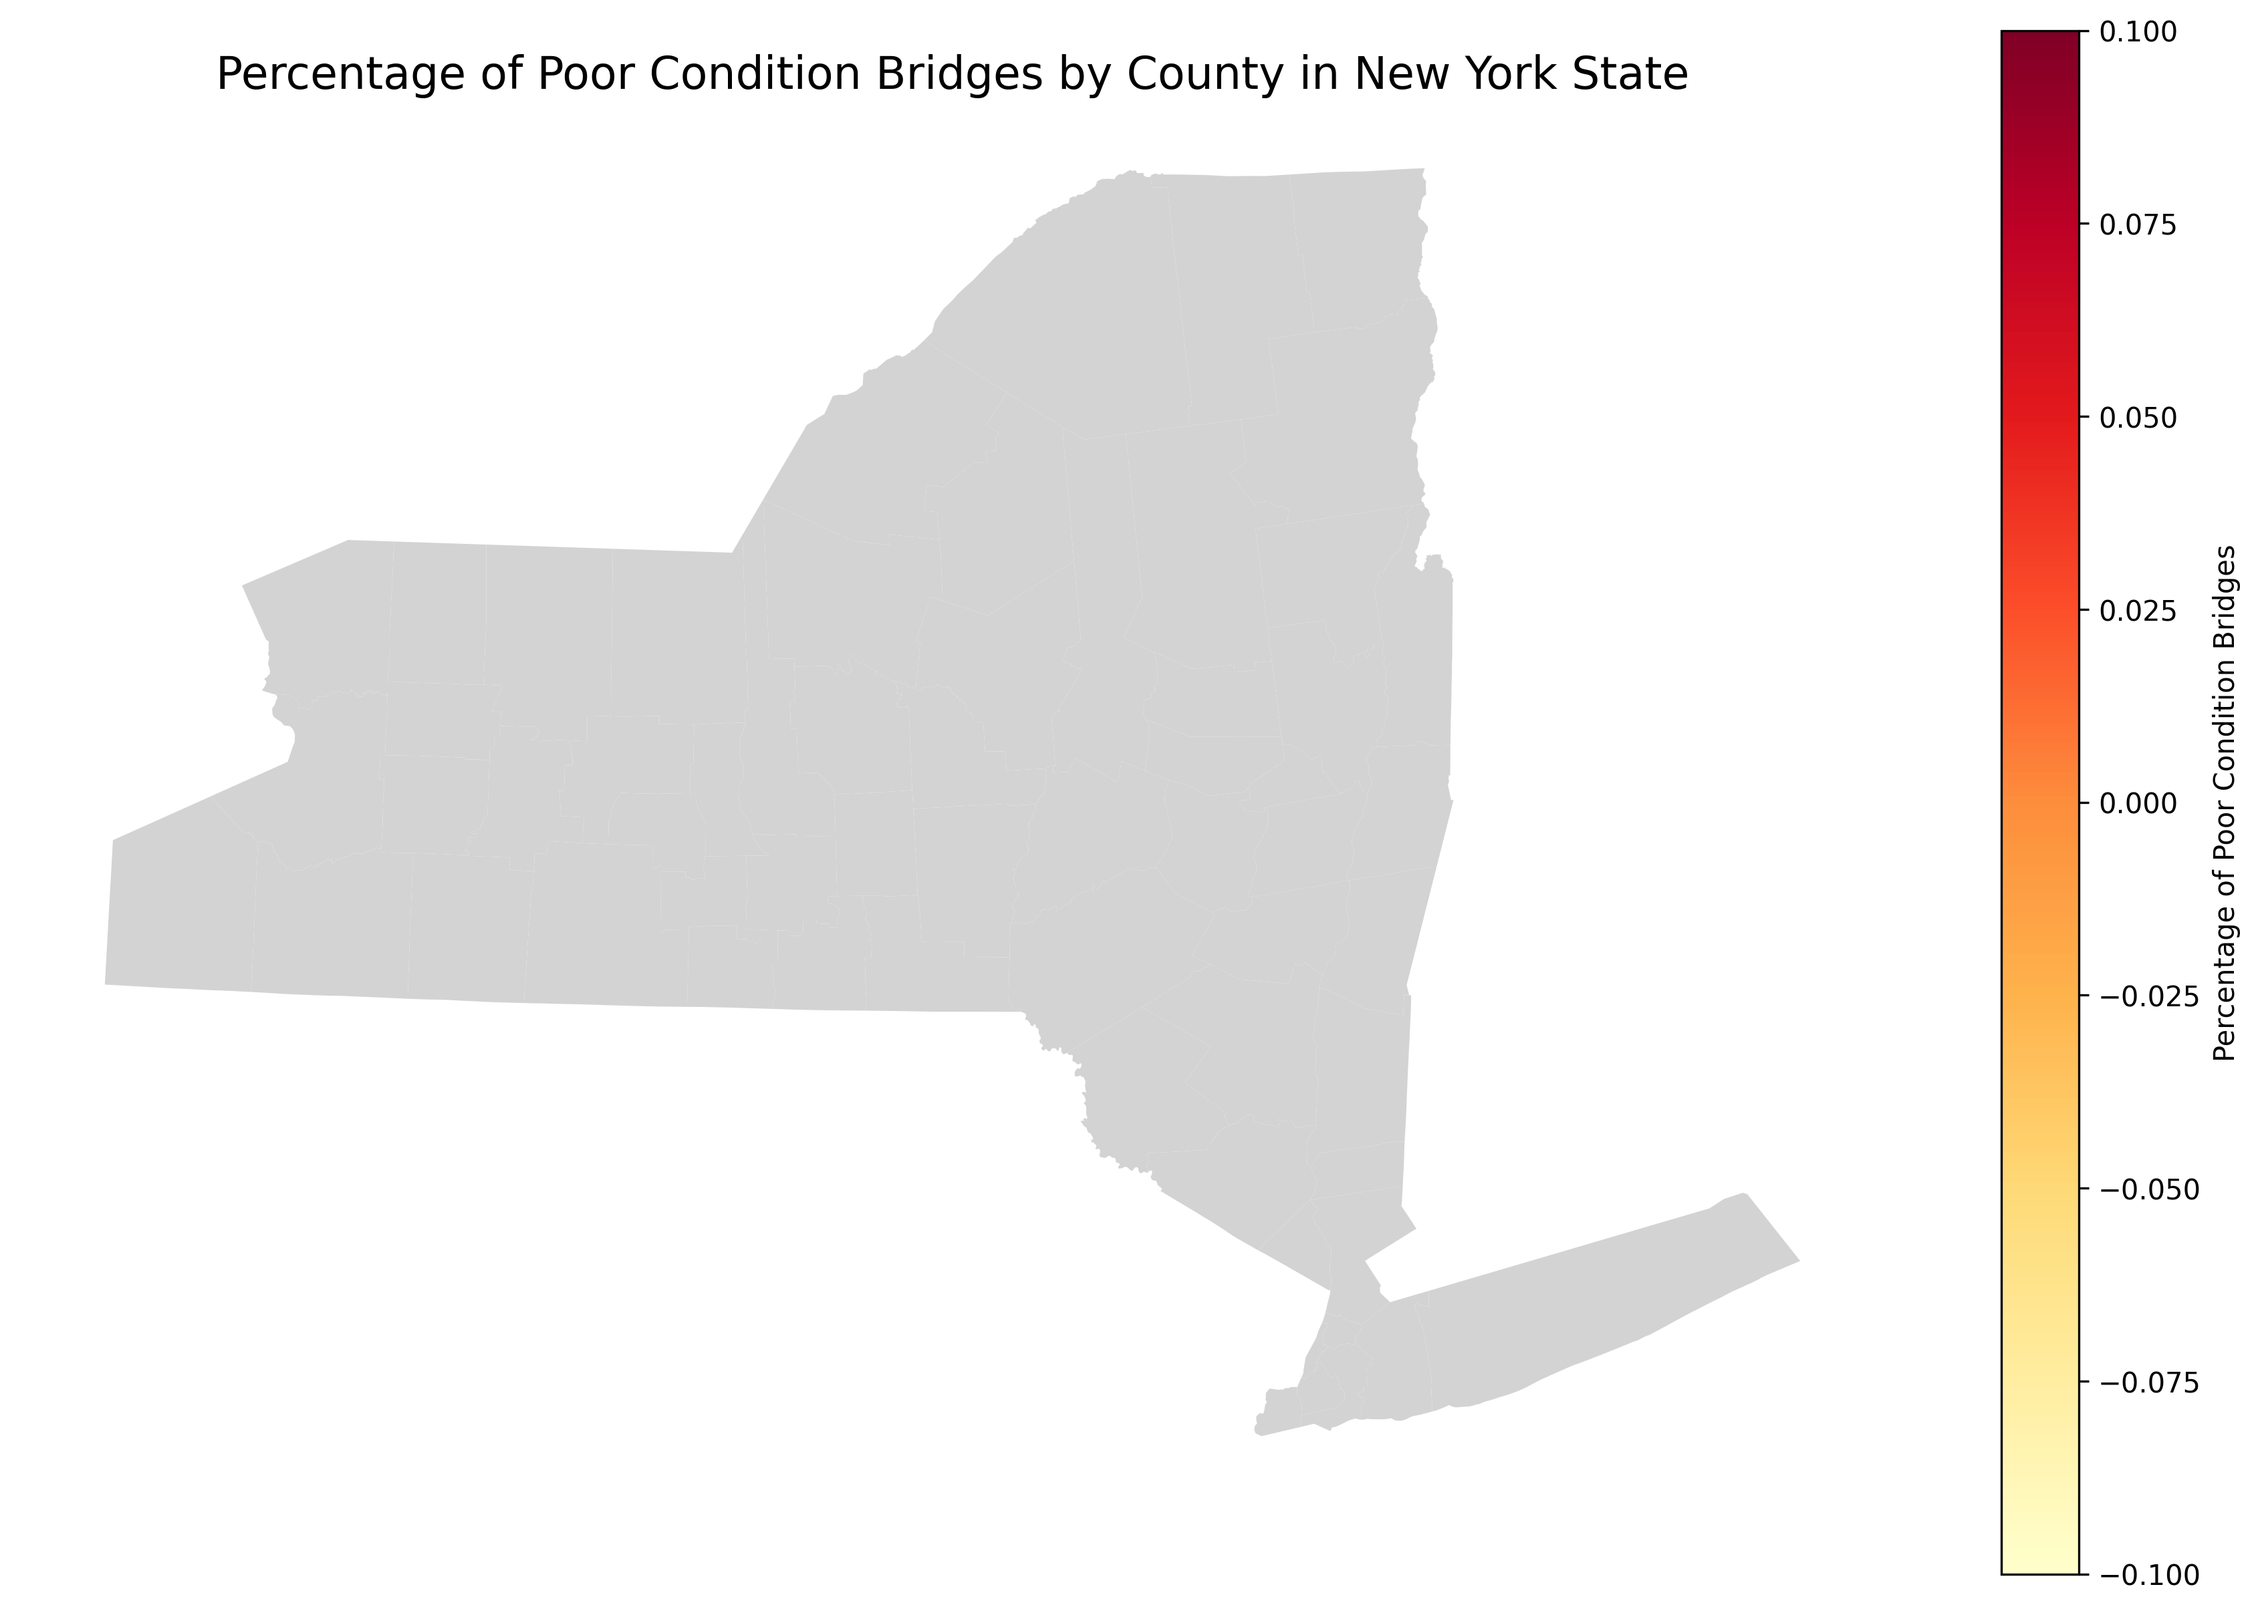
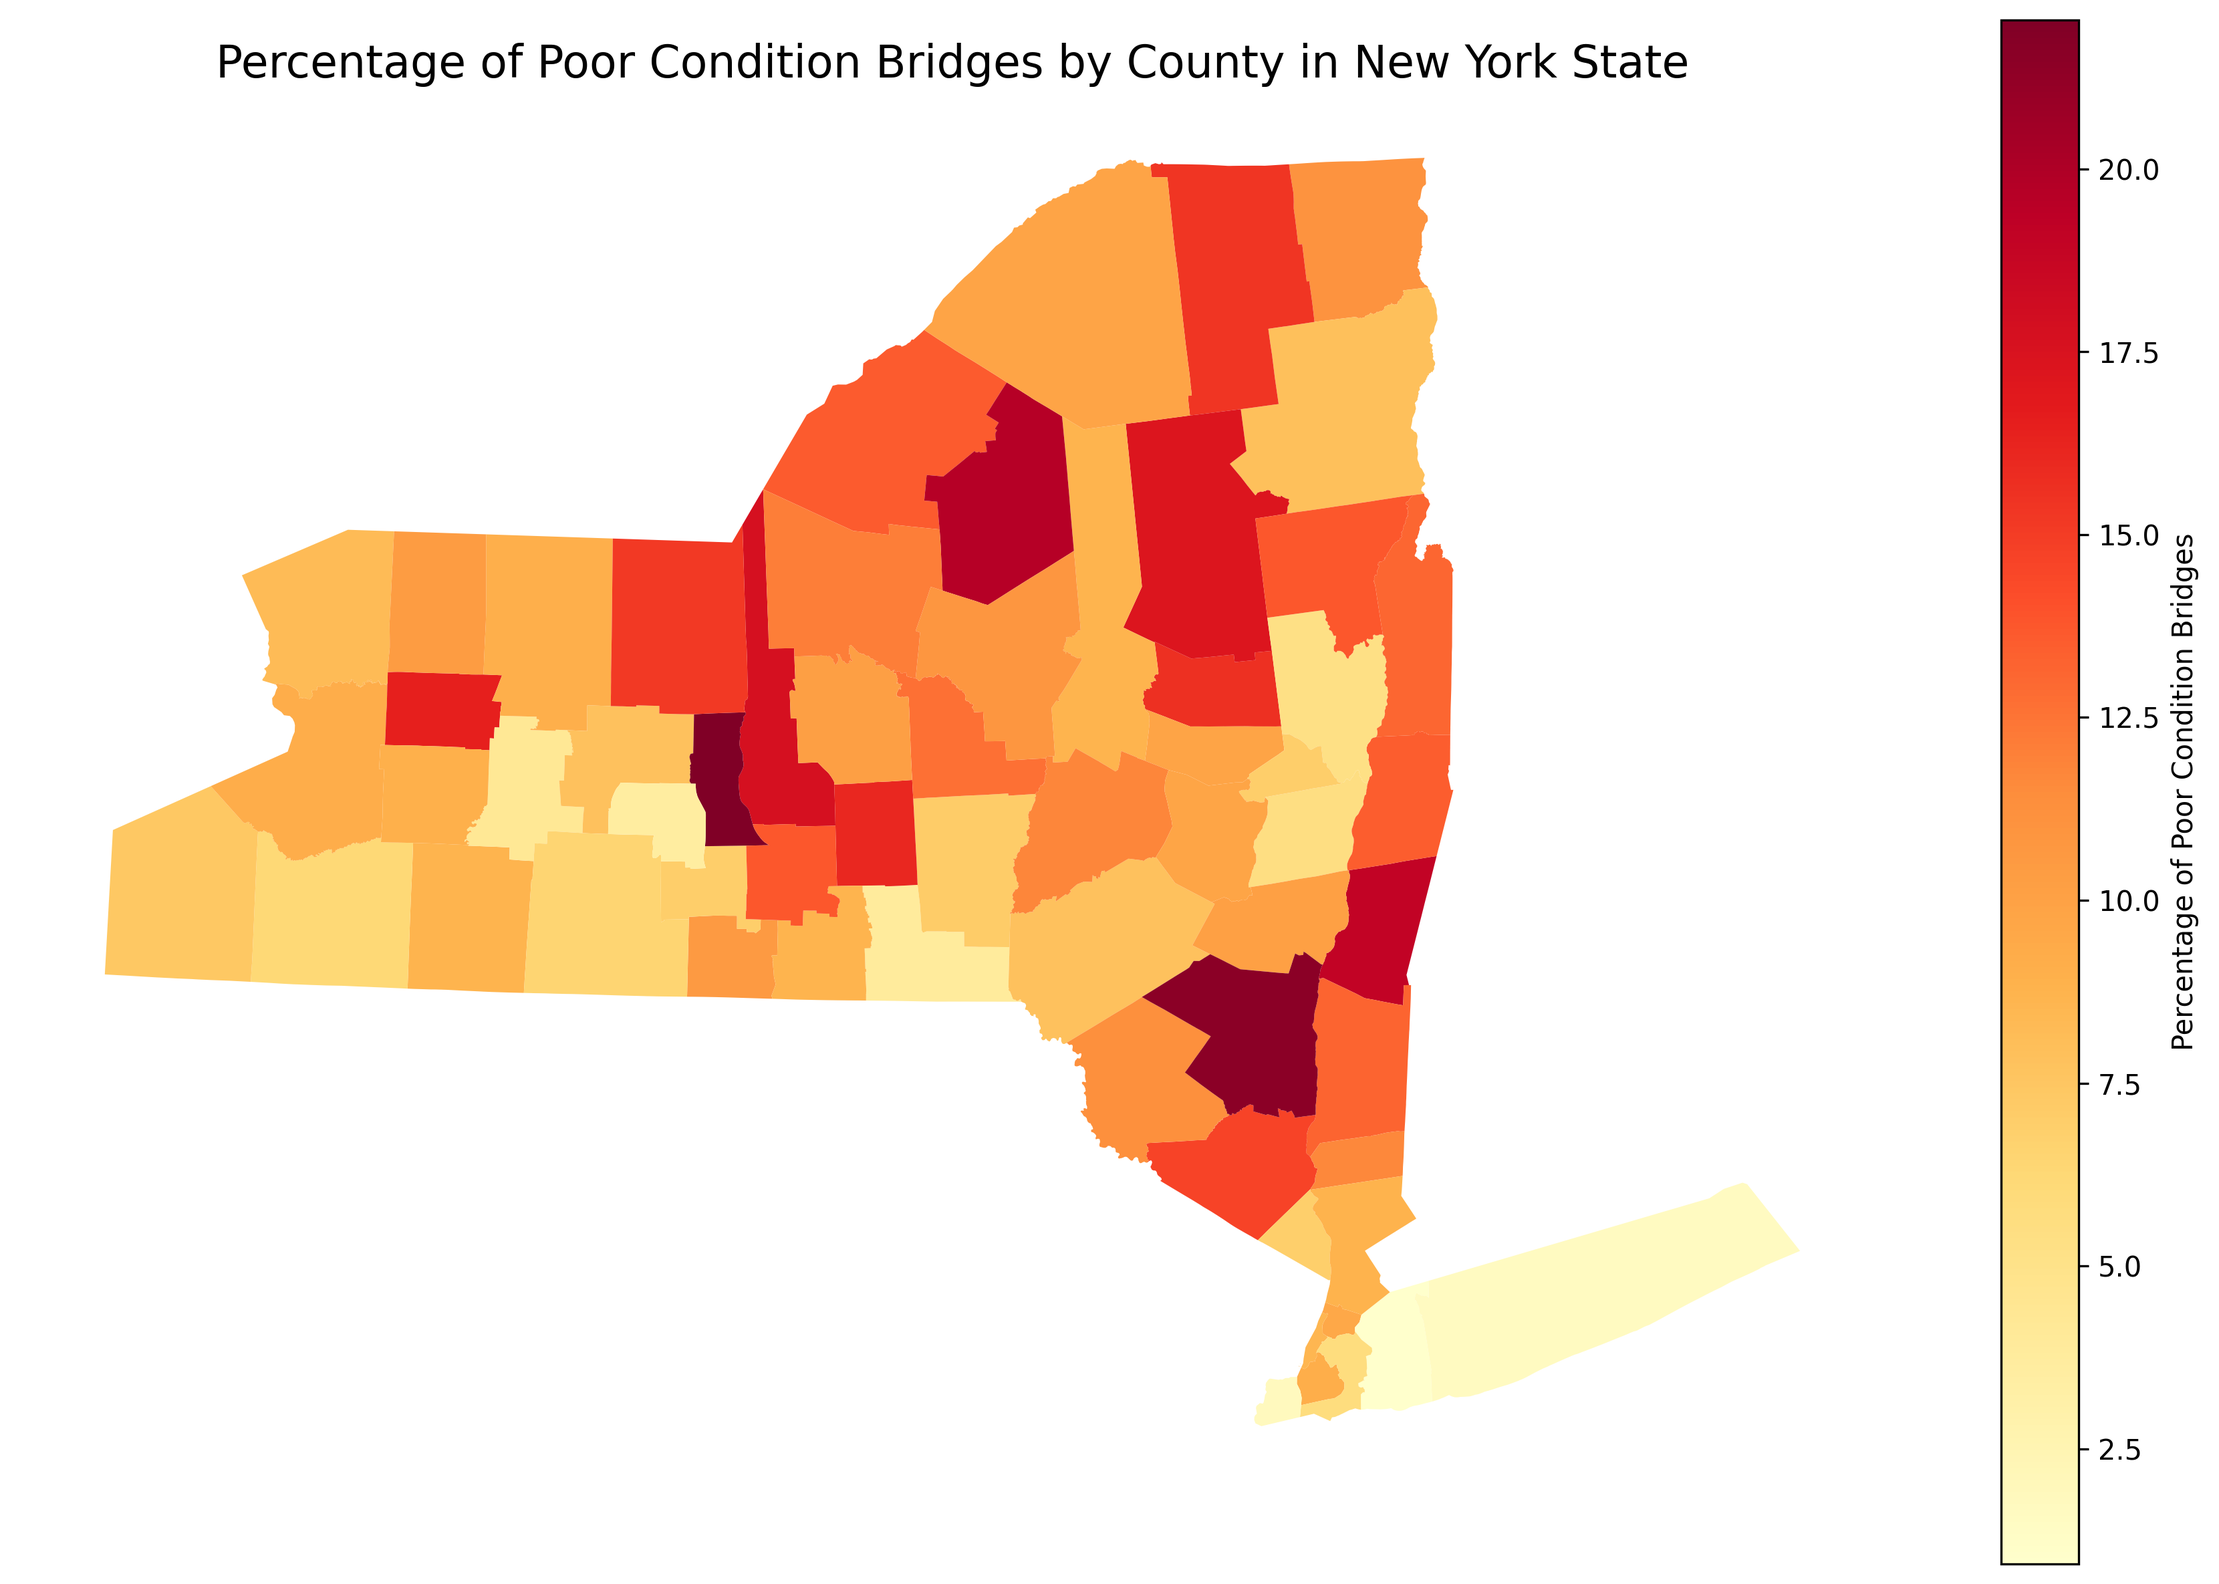
Jul 2, 2024, 3:16 PM

diff --git a/_viz_scripts/1a_chloropleth.py b/_viz_scripts/1a_chloropleth.py
@@ -38,6 +38,10 @@ def create_choropleth_map(json_file, shapefile_path):
     }).reset_index()
     county_data['Poor Percentage'] = (county_data['Poor Status'] / county_data['BIN']) * 100
 
+    # Print county data for debugging
+    print("County data:")
+    print(county_data)
+
     # Load the shapefile
     print(f"Loading shapefile: {shapefile_path}")
     try:
@@ -49,12 +53,18 @@ def create_choropleth_map(json_file, shapefile_path):
     # Print column names of the shapefile
     print("Columns in the shapefile:", ny_counties.columns)
 
-    # Assuming the county name column in the shapefile is 'NAME'
-    # Adjust this if it's different in your shapefile
-    ny_counties['NAME'] = ny_counties['NAME'].str.upper()
-    
+    # Print unique county names in the shapefile
+    print("Unique county names in shapefile:", ny_counties['NAME'].unique())
+
+    # Print unique county names in the bridge data
+    print("Unique county names in bridge data:", county_data['County'].unique())
+
     # Merge shapefile with our data
     merged = ny_counties.merge(county_data, left_on='NAME', right_on='County', how='left')
+
+    # Print merged data for debugging
+    print("Merged data:")
+    print(merged[['NAME', 'County', 'Poor Percentage']])
 
     # Create the plot
     fig, ax = plt.subplots(1, 1, figsize=(15, 10))
